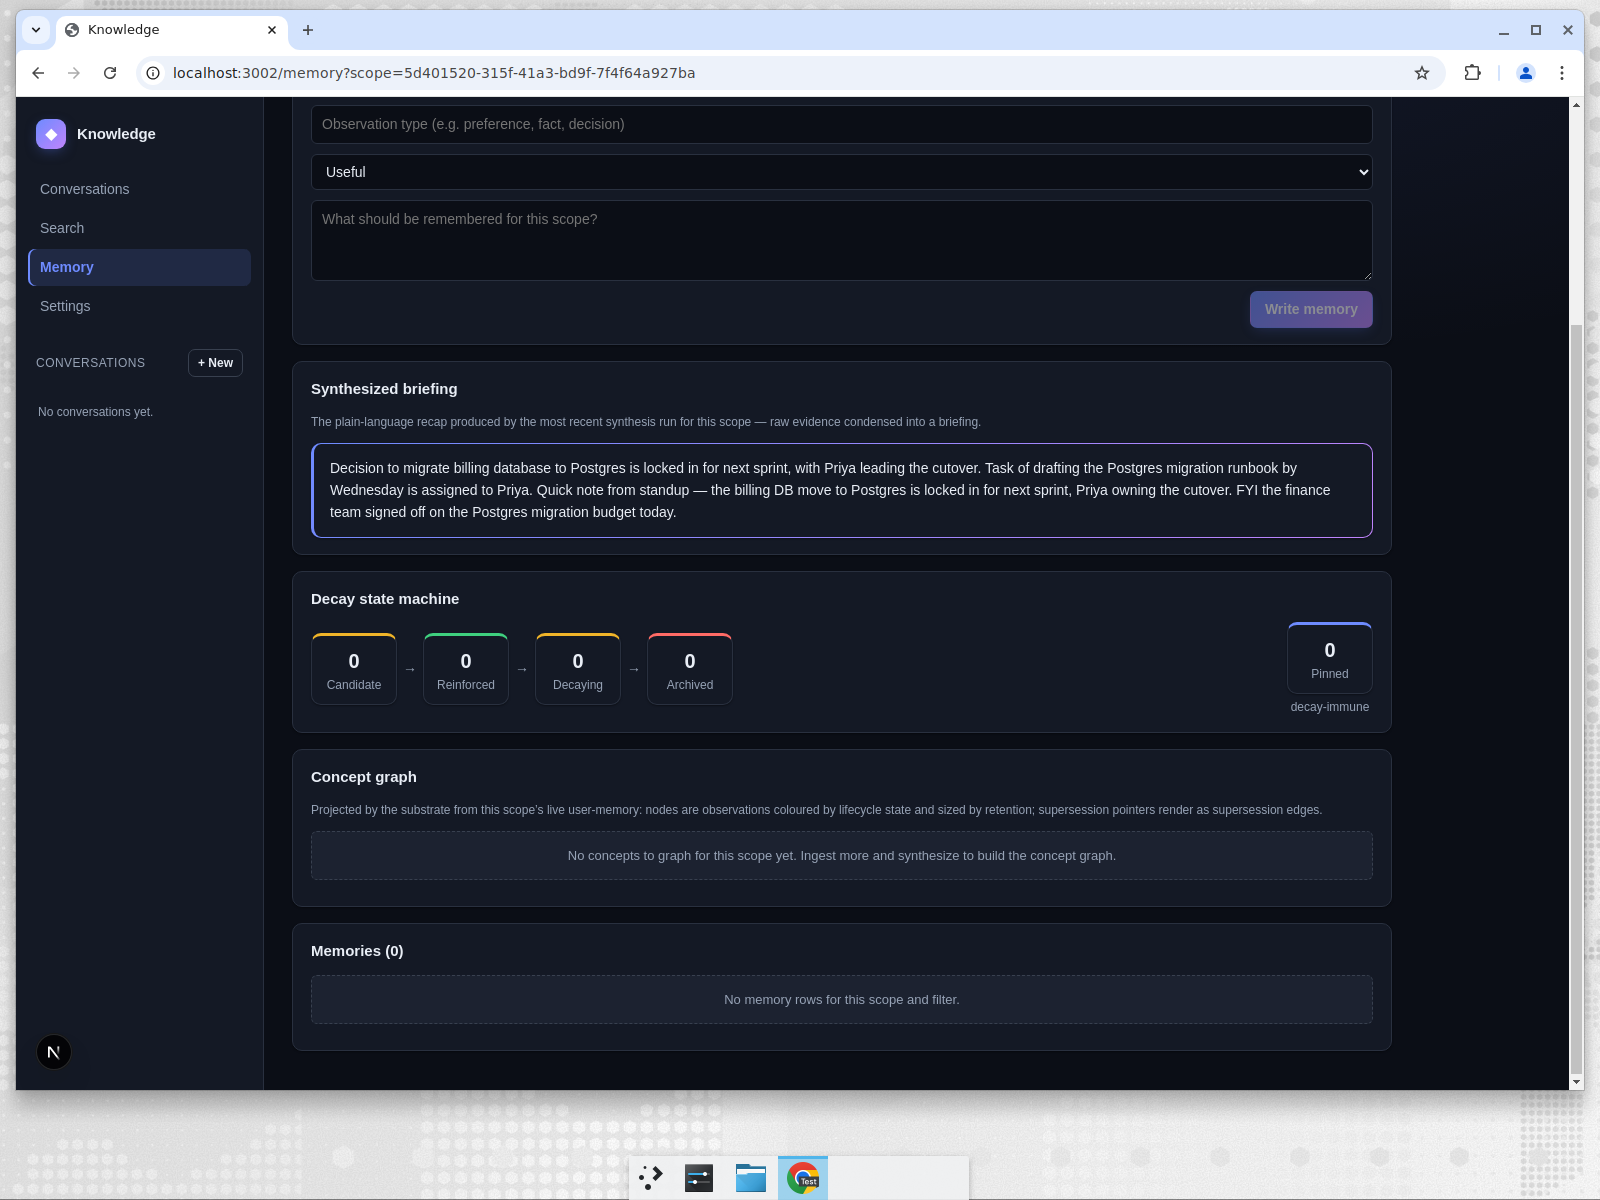
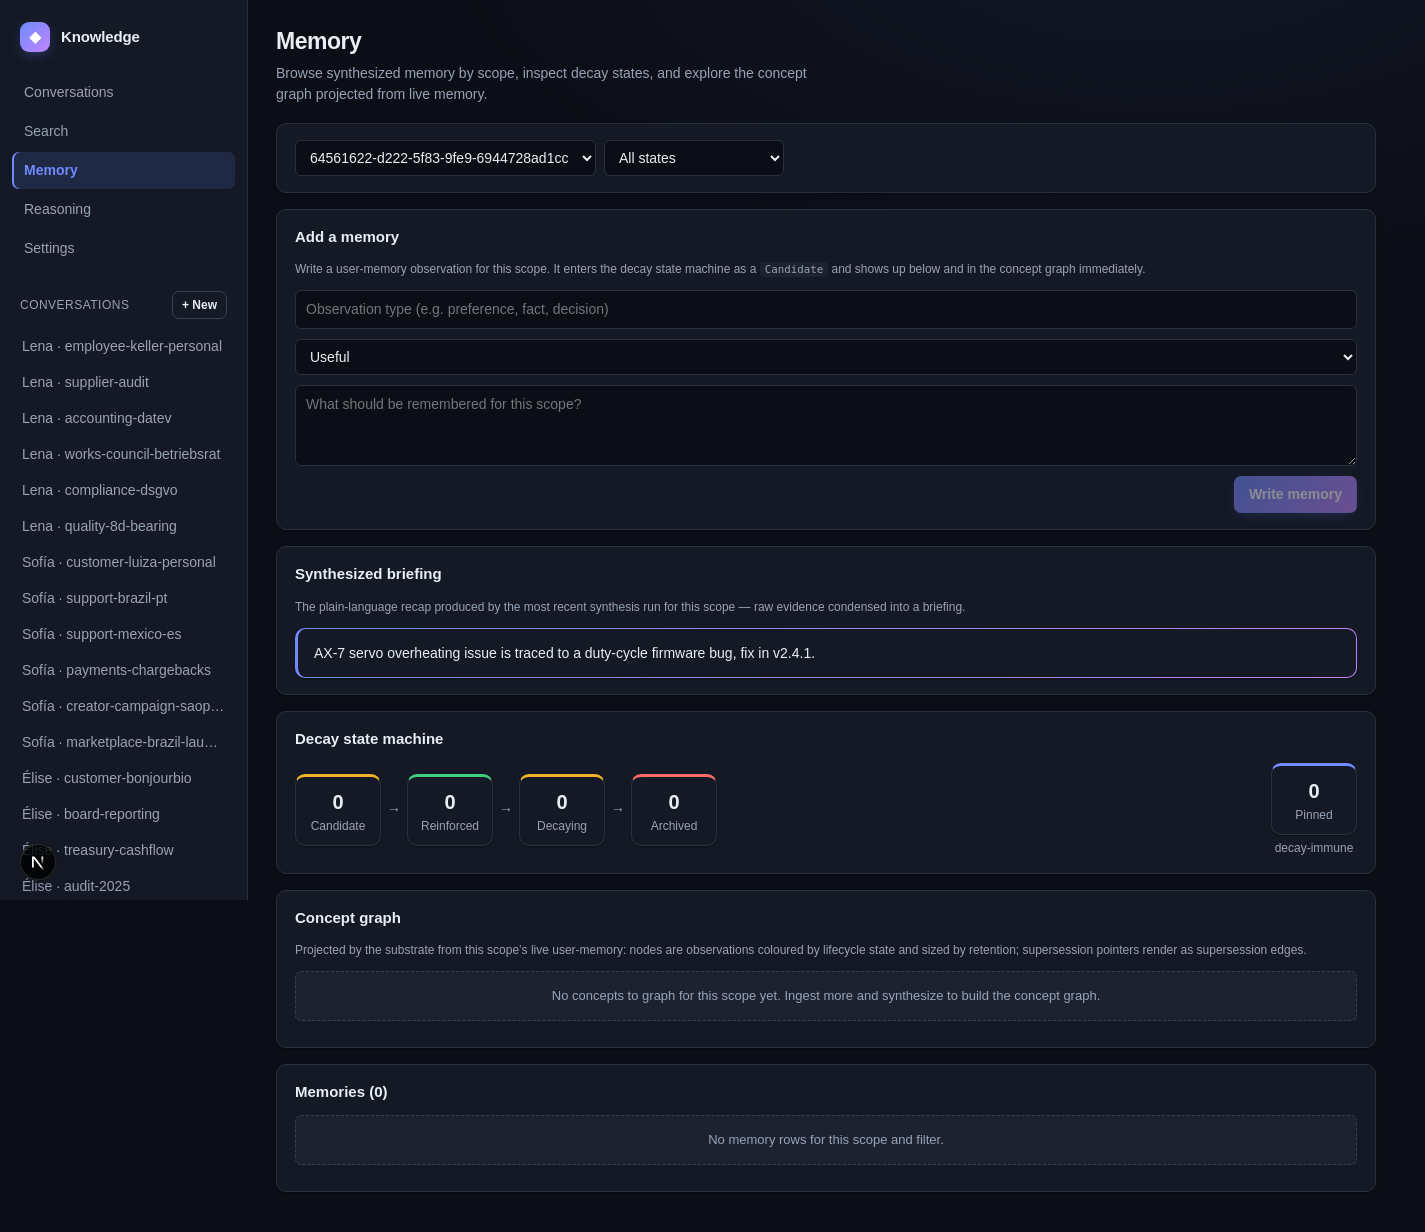
blog: refresh executive-personas UI evidence from live v1.2.0 stack
Regenerate all 8 reference-UI screenshots from a freshly built live stack
(prism llama.cpp + canonical Bonsai-1.7B Q2_0, substrate, gateway, Next.js
UI) and reconcile the surrounding captions with what the current UI renders:

- conversations grid now lists the three personas the reference UI seeds
  (Élise, Sofía, Lena) instead of naming all five;
- the supplier-cartonord chat panel shows the live synthesized briefing
  (the chat transcript pane is the ingest box, not a replay of evidence),
  so the captions no longer assert a French briefing / notes-on-the-left;
- populated concept graph rendered with readable, non-clipped node labels.

Committed demo evidence (persona results, leaderboard, synthesis-eval) is
left untouched; prose was verified current against HEAD code + CHANGELOG
[Unreleased] (all features covered, endpoints exist, numbers consistent).

diff --git a/blog/executive-personas/01-five-executives-one-substrate.md b/blog/executive-personas/01-five-executives-one-substrate.md
@@ -46,7 +46,7 @@ organisation-wide.
 
 The reference UI lists each scope as an isolated conversation:
 
-![The Conversations view: every scope is its own encrypted compartment, listed across Élise, Kenji, Sofía, Anand and Lena.](assets/01-conversations-grid.png)
+![The Conversations view: every scope is its own encrypted compartment. The reference UI is seeded with three of the five personas — Élise, Sofía and Lena.](assets/01-conversations-grid.png)
 
 ## Step 1 — Unified ingest
 
@@ -69,7 +69,7 @@ In the UI, sending a message *is* an ingest. Here Élise drops two
 month-end notes into `supplier-cartonord`, and the right-hand panel
 shows the briefing the system already holds for that scope:
 
-![Chat view: two French notes ingested as evidence; the synthesized French briefing is shown in the memory panel.](assets/02-chat-recap-fr.png)
+![Chat view of `supplier-cartonord`: the panel on the right shows the synthesized briefing the system already holds for that scope.](assets/02-chat-recap-fr.png)
 
 ## Step 2 — Recall, in her language
 

diff --git a/blog/executive-personas/04-design-and-product-gaps.md b/blog/executive-personas/04-design-and-product-gaps.md
@@ -89,9 +89,9 @@ setRecap(recapRow);
 setMemories(rows);
 ```
 
-Now the panel shows the real French briefing the moment it exists:
+Now the panel shows the real briefing the moment it exists:
 
-![Chat view after the fix: ingested French notes on the left, the live synthesised briefing in the panel on the right.](assets/02-chat-recap-fr.png)
+![Chat view after the fix: the live synthesised briefing appears in the right-hand panel as soon as synthesis produces it.](assets/02-chat-recap-fr.png)
 
 This is the kind of bug that only an honest audit catches — everything
 "worked," the API returned 200s, and the screen was simply reading the
